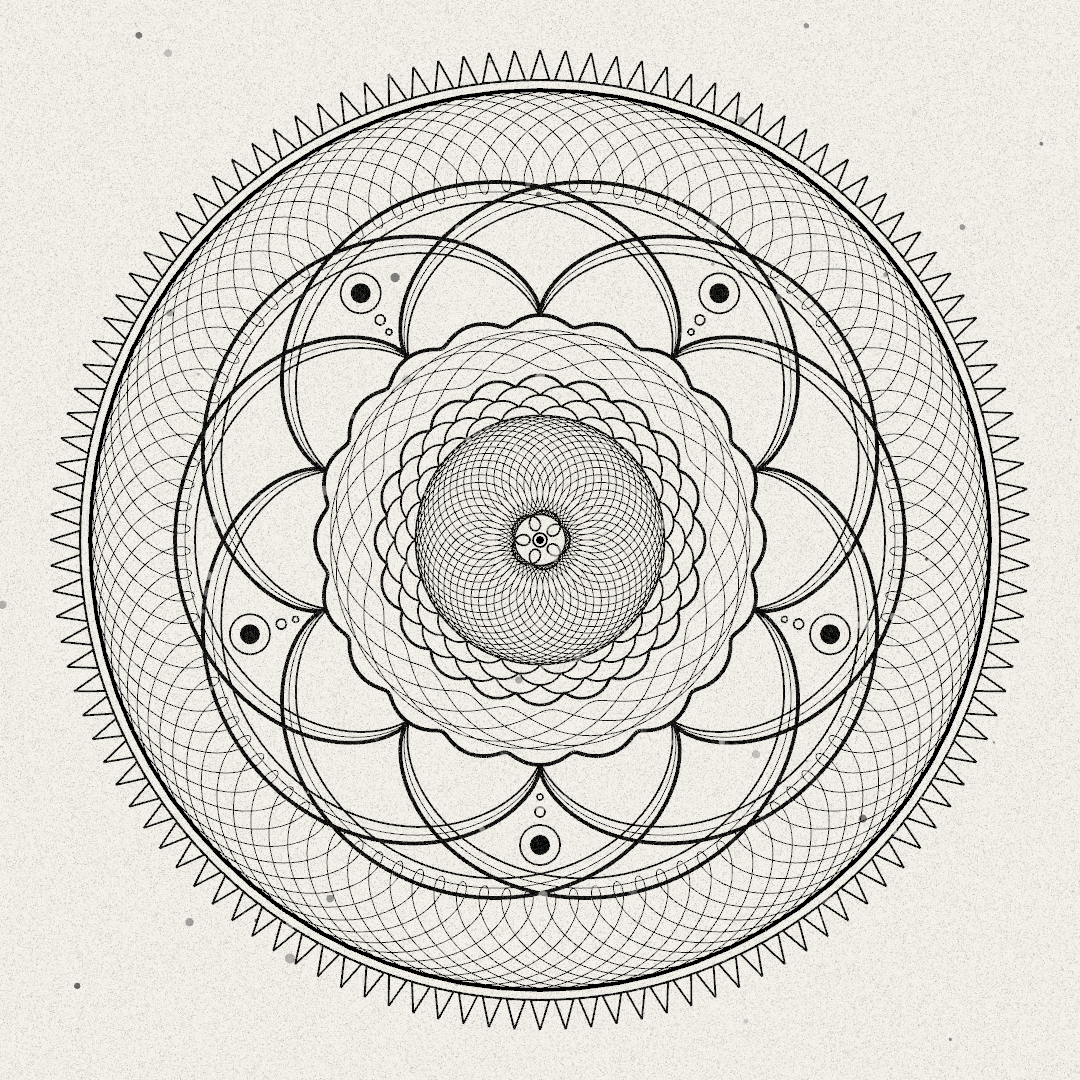
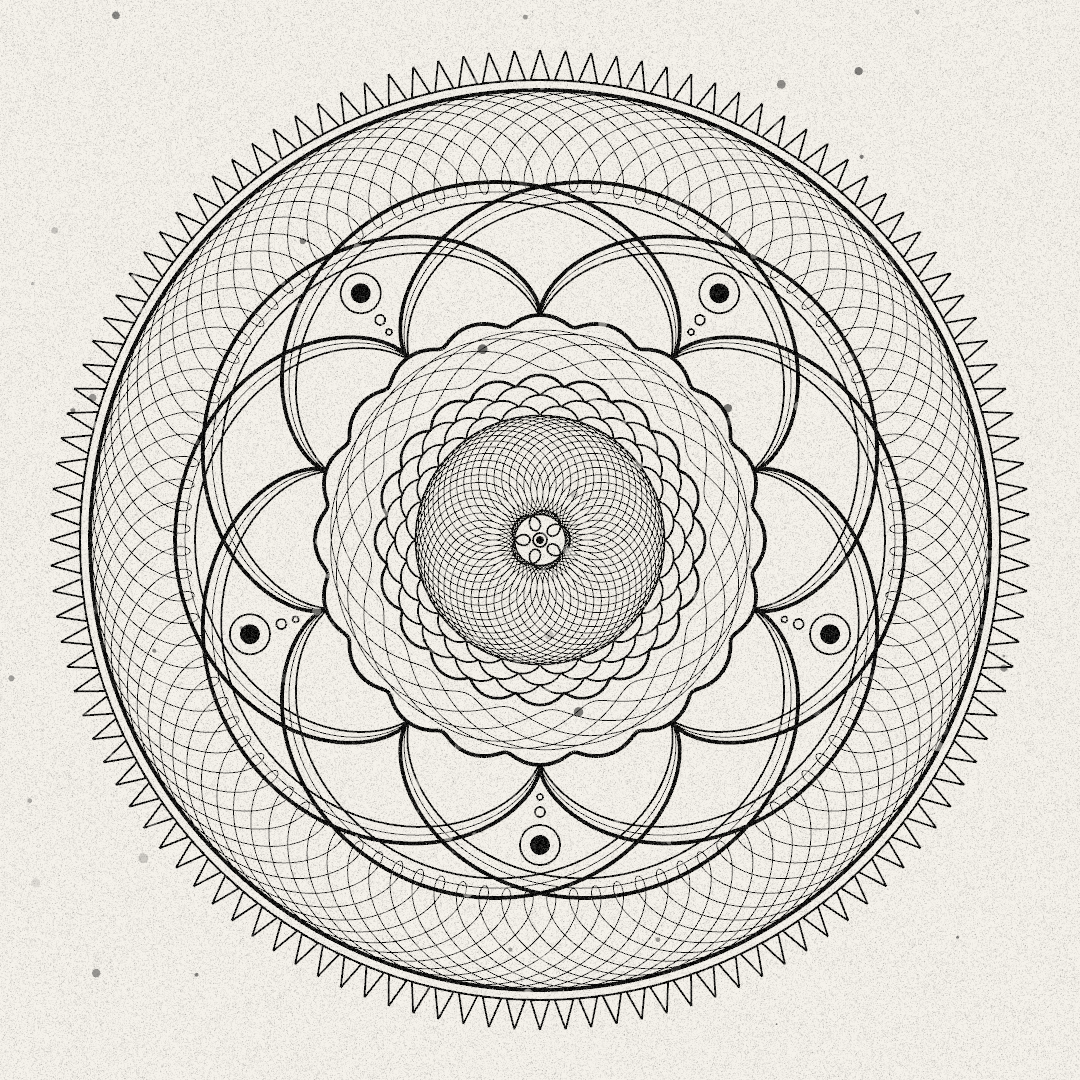
add(paint mandala layer by layer)

diff --git a/post016/src/ofApp.cpp b/post016/src/ofApp.cpp
@@ -5,7 +5,7 @@
 void ofApp::setup() {
   // Setup the canvas
   ofSetBackgroundAuto(false);
-  ofSetFrameRate(3000);
+  ofSetFrameRate(600);
   ofSetCircleResolution(72);
   ofColor bg_color(245, 242, 235);
   ofBackground(bg_color);
@@ -45,6 +45,21 @@ void ofApp::setup() {
     layers_.back().draw_ = [](const Layer& layer) {
       ofSetColor(0);
       ofSetLineWidth(2);
+      ofDrawLine(layer.previous_brush_position_,
+                 layer.spirograph_.brush_position());
+    };
+  }
+
+  // External circle
+  {
+    Layer layer;
+    layer.spirograph_.AddNode({0, 0, 0}, 1.f);
+    layer.spirograph_.AddNode({450, 0, 0}, 0, true);
+    layers_.push_back(layer);
+
+    layers_.back().draw_ = [](const Layer& layer) {
+      ofSetColor(0);
+      ofSetLineWidth(4);
       ofDrawLine(layer.previous_brush_position_,
                  layer.spirograph_.brush_position());
     };
@@ -315,25 +330,49 @@ void ofApp::setup() {
                  layer.spirograph_.brush_position());
     };
   }
+
+  // Center of the small flower
+  {
+    Layer layer;
+    layer.spirograph_.AddNode({0, 0, 0}, 300.f);
+    layer.spirograph_.AddNode({2, 0, 0}, 0, true);
+    layers_.push_back(layer);
+
+    layers_.back().draw_ = [](const Layer& layer) {
+      ofSetColor(0);
+      ofSetLineWidth(2);
+
+      ofNoFill();
+      ofDrawCircle({0, 0}, 7);
+
+      ofFill();
+      ofDrawCircle({0, 0}, 4);
+    };
+  }
 }
 
 //--------------------------------------------------------------
 void ofApp::update() {
-  if (ofGetFrameNum() > 10) {
-    //  Remove the closed spirographs
-    layers_.erase(std::remove_if(layers_.begin(), layers_.end(),
-                                 [](const Layer& layer) {
-                                   return layer.spirograph_.IsCicleStart();
-                                 }),
-                  layers_.end());
+  // Process the layers in order, from the inner to the outer one
+  // - If the current layer is already closed, remove it from the list
+  // - Then, rotate the spirograph nodes accordingly
+  if (!layers_.empty()) {
+    if (layers_.back().spirograph_.IsCicleStart() && !init_cicle_) {
+      layers_.pop_back();
+      init_cicle_ = true;
+    } else {
+      init_cicle_ = false;
+    }
   }
 
-  // Rotate the spirograph brushes
-  for (auto& layer : layers_) {
+  if (!layers_.empty()) {
+    auto& layer = layers_.back();
     layer.previous_brush_position_ = layer.spirograph_.brush_position();
     layer.spirograph_.nodes_mutable()[0]->RotateZ();
     layer.spirograph_.nodes_mutable()[1]->RotateZ();
   }
+
+  soo::SaveFrame(ofGetFrameNum());
 }
 
 //--------------------------------------------------------------
@@ -341,23 +380,8 @@ void ofApp::draw() {
   ofPushMatrix();
   ofTranslate(ofGetWidth() / 2, ofGetHeight() / 2);
   {
-    ofSetColor(0);
-
-    // Outer circle
-    ofNoFill();
-    ofSetLineWidth(4);
-    ofDrawCircle({0, 0}, 450);
-
-    // Flower Center
-    ofNoFill();
-    ofSetLineWidth(2);
-    ofDrawCircle({0, 0}, 7);
-
-    ofFill();
-    ofDrawCircle({0, 0}, 4);
-
-    for (const auto& layer : layers_) {
-      layer.draw();
+    if (!layers_.empty()) {
+      layers_.back().draw();
     }
   }
   ofPopMatrix();
@@ -374,9 +398,6 @@ void ofApp::draw() {
 void ofApp::keyPressed(int key) {
   if (key == 's') {
     soo::SaveFrame();
-  }
-  if (key == 'r') {
-    layers_.clear();
   }
 }
 

diff --git a/post016/src/ofApp.h b/post016/src/ofApp.h
@@ -36,6 +36,7 @@ class ofApp : public ofBaseApp {
   void gotMessage(ofMessage msg);
 
  private:
+  bool init_cicle_ = true;
   std::vector<Layer> layers_;
 
   bool is_noise_drawn_ = false;
